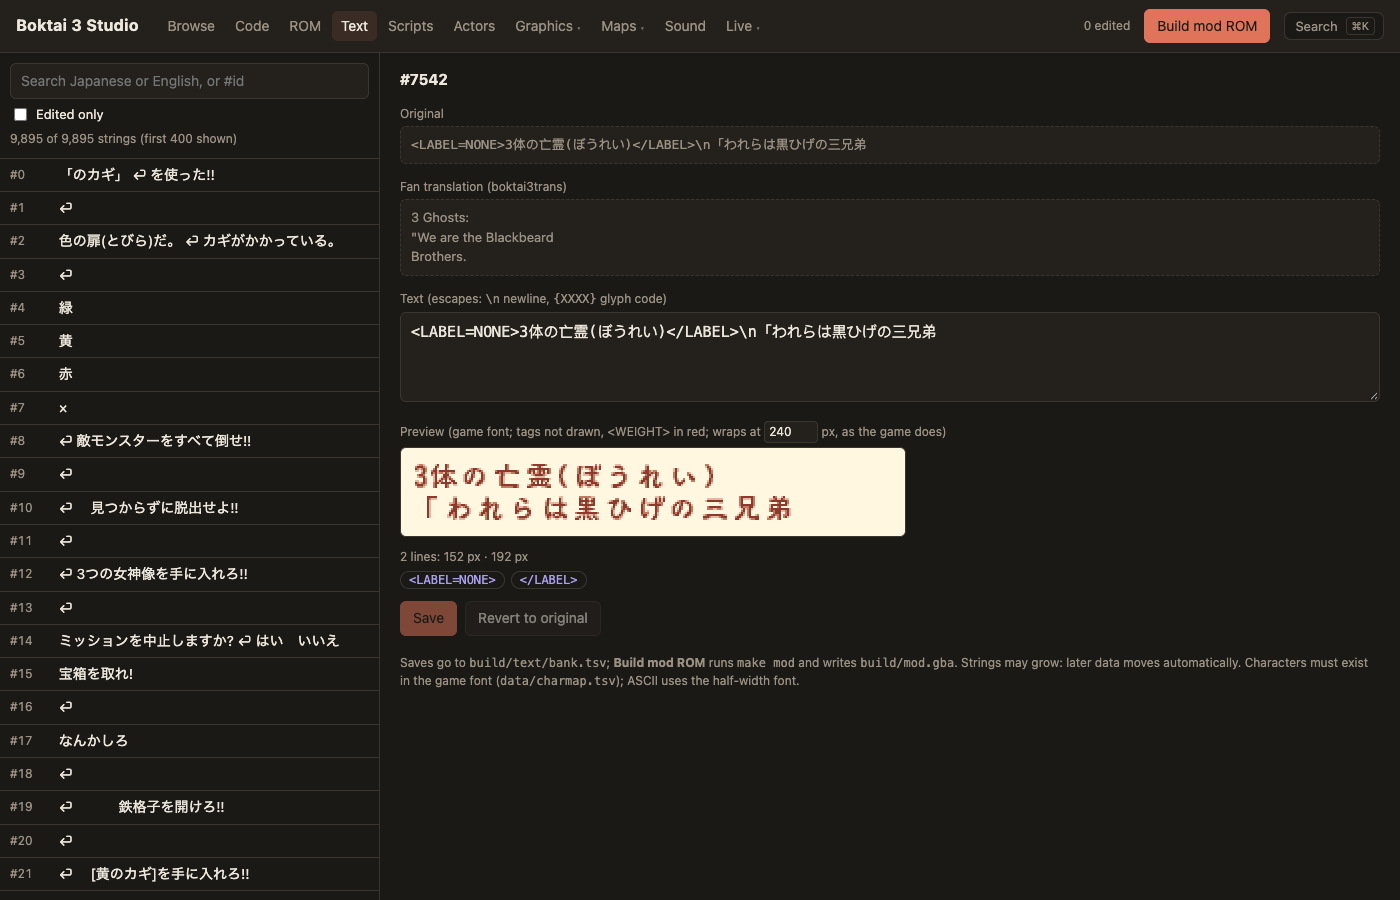
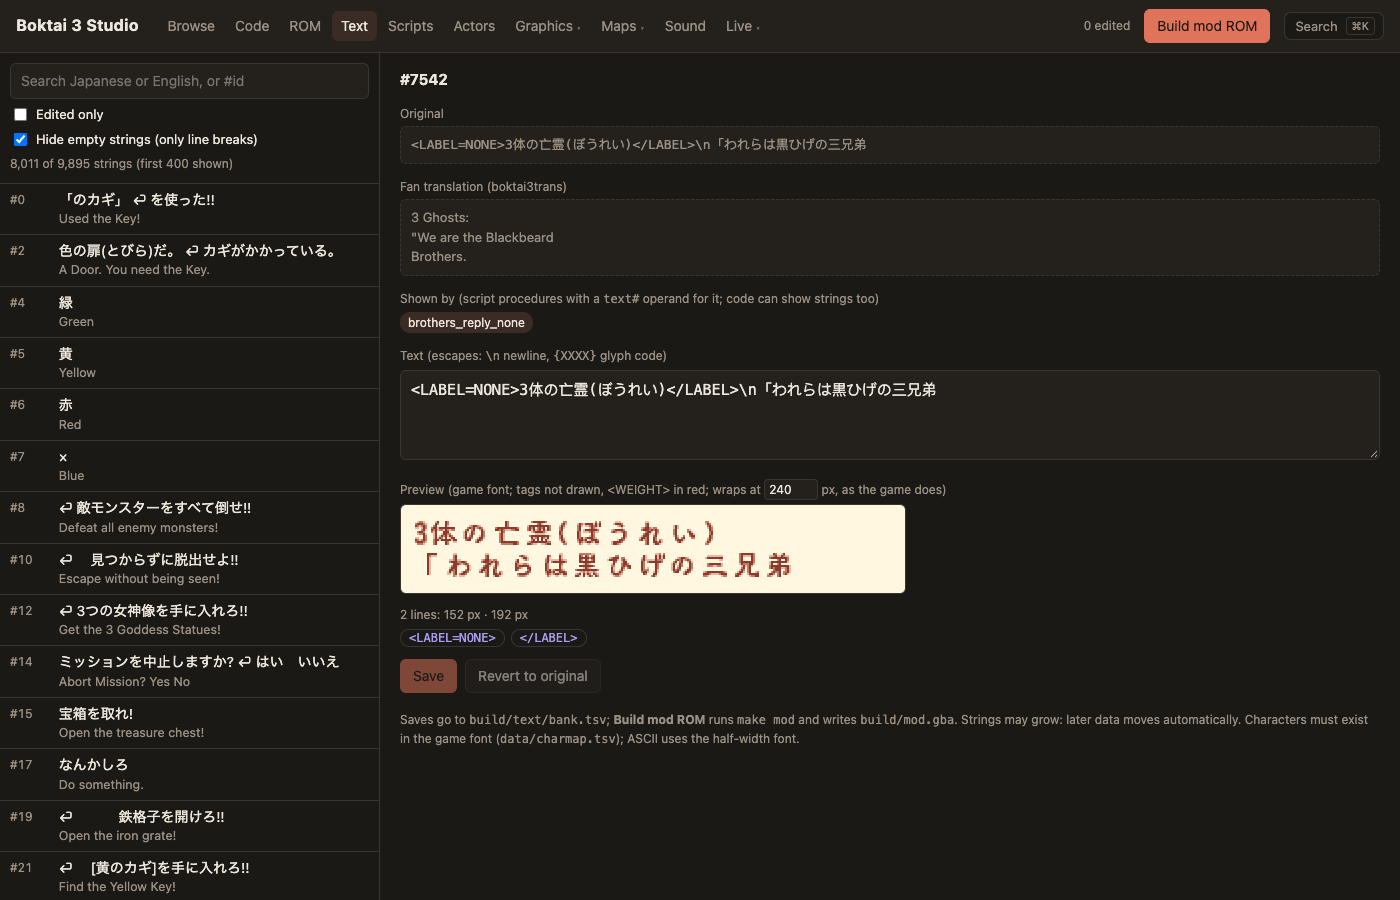
Studio Text: English in the list, empty strings hidden, who shows each string
The string list showed only the Japanese, and 1,884 of its 9,895 rows
were line breaks the game never shows. Each row now has the fan
translation under it, "Hide empty strings" is on by default, the first
string opens when no id is given, and the editor lists the script
procedures that show the string (/api/text/uses/N, from their text#N
operands), each opening in the side panel.

diff --git a/tools/studio/index.html b/tools/studio/index.html
@@ -38,7 +38,13 @@ input[type=search] { width: 100%; padding: 7px 10px; border-radius: 6px; border:
 .row:hover { background: var(--sel); }
 .row.on { background: var(--sel); box-shadow: inset 3px 0 var(--accent); }
 .row .id { color: var(--muted); font-variant-numeric: tabular-nums; min-width: 3.4em; font-size: 12px; padding-top: 1px; }
-.row .t { overflow: hidden; text-overflow: ellipsis; white-space: nowrap; flex: 1; }
+.row .t { overflow: hidden; flex: 1; min-width: 0; }
+.row .t > span { display: block; overflow: hidden; text-overflow: ellipsis; white-space: nowrap; }
+.row .t .en { color: var(--muted); font-size: 12.5px; }
+.uses { display: flex; gap: 6px; flex-wrap: wrap; }
+.uses a { font-size: 12px; padding: 2px 8px; border-radius: 10px; background: var(--sel); color: var(--ink); text-decoration: none; }
+.uses a:hover { outline: 1px solid var(--accent); }
+.uses .none { color: var(--muted); font-size: 12px; }
 .row .e { color: var(--edited); font-size: 11px; }
 #edit { padding: 16px 20px; overflow-y: auto; min-width: 0; }
 #edit h2 { font-size: 15px; margin: 0 0 10px; display: flex; gap: 10px; align-items: baseline; }
@@ -76,6 +82,9 @@ pre#log { background: var(--panel); border: 1px solid var(--line); border-radius
       <label style="margin:0;display:flex;gap:6px;align-items:center;color:var(--ink);font-size:13px">
         <input id="onlyEdited" type="checkbox"> Edited only
       </label>
+      <label style="margin:0;display:flex;gap:6px;align-items:center;color:var(--ink);font-size:13px">
+        <input id="hideEmpty" type="checkbox" checked> Hide empty strings (only line breaks)
+      </label>
       <div id="count"></div>
     </div>
     <div id="list"></div>
@@ -86,6 +95,8 @@ pre#log { background: var(--panel); border: 1px solid var(--line); border-radius
     <div class="orig" id="orig"></div>
     <label>Fan translation (boktai3trans)</label>
     <div class="orig" id="fan" style="font-family:system-ui,sans-serif"></div>
+    <label>Shown by <span style="font-weight:normal">(script procedures with a <code>text#</code> operand for it; code can show strings too)</span></label>
+    <div class="uses" id="uses"><span class="none">Pick a string on the left.</span></div>
     <label for="ed">Text <span style="font-weight:normal">(escapes: <code>\n</code> newline, <code>{XXXX}</code> glyph code)</span></label>
     <textarea id="ed" spellcheck="false" disabled></textarea>
     <label>Preview (game font; tags not drawn, &lt;WEIGHT&gt; in red; wraps at
@@ -127,15 +138,19 @@ async function load() {
   render();
   const h = parseInt(location.hash.slice(1));
   if (byId.has(h)) select(h);
+  else if (!EMBED) { const first = strings.find(s => !isEmpty(s)); if (first) select(first.id); }
   window.addEventListener('hashchange', () => { const n = parseInt(location.hash.slice(1)); if (byId.has(n)) select(n); });
 }
 
 function plain(t) { return t.replace(/<[^>]*>/g, '').replace(/\\n/g, ' ⏎ '); }
+// nothing but line breaks, tags and spaces: placeholders the game never shows
+const isEmpty = s => !plain(s.text).replace(/[⏎\s]/g, '');
 
 function render() {
-  const q = $('q').value.trim(), only = $('onlyEdited').checked;
+  const q = $('q').value.trim(), only = $('onlyEdited').checked, hide = $('hideEmpty').checked;
   let hits = strings;
   if (only) hits = hits.filter(s => s.edited);
+  if (hide && !q.startsWith('#')) hits = hits.filter(s => s.id === cur || !isEmpty(s));
   if (q.startsWith('#')) {
     const n = parseInt(q.slice(1));
     hits = isNaN(n) ? hits : hits.filter(s => String(s.id).startsWith(String(n)));
@@ -150,8 +165,10 @@ function render() {
     const d = document.createElement('div');
     d.className = 'row' + (cur === s.id ? ' on' : '');
     d.dataset.id = s.id;
-    d.innerHTML = `<span class="id">#${s.id}</span><span class="t"></span>${s.edited ? '<span class="e">edited</span>' : ''}`;
-    d.querySelector('.t').textContent = plain(s.text) || '(empty)';
+    d.innerHTML = `<span class="id">#${s.id}</span><span class="t"><span class="jp"></span><span class="en"></span></span>${s.edited ? '<span class="e">edited</span>' : ''}`;
+    d.querySelector('.jp').textContent = plain(s.text) || '(empty)';
+    const en = fan[s.id];
+    if (en && en !== s.text) d.querySelector('.en').textContent = plain(en); else d.querySelector('.en').remove();
     frag.appendChild(d);
   }
   $('list').replaceChildren(frag);
@@ -165,6 +182,7 @@ $('list').addEventListener('click', e => {
 $('q').addEventListener('input', render);
 listKeys(() => $('list'), '.row');
 $('onlyEdited').addEventListener('change', render);
+$('hideEmpty').addEventListener('change', render);
 
 function select(id) {
   cur = id;
@@ -179,6 +197,15 @@ function select(id) {
   history.replaceState(null, '', '#' + id);
   for (const r of document.querySelectorAll('.row')) r.classList.toggle('on', +r.dataset.id === id);
   preview();
+  showUses(id);
+}
+async function showUses(id) {
+  $('uses').innerHTML = '<span class="none">…</span>';
+  const u = await fetch('/api/text/uses/' + id).then(r => r.ok ? r.json() : null).catch(() => null);
+  if (cur !== id) return;
+  $('uses').innerHTML = !u ? '<span class="none">unavailable</span>' : u.procs.length
+    ? u.procs.map(p => peekLink('/scripts#' + p.id, esc(p.name || 'proc ' + p.id))).join('')
+    : '<span class="none">no script names it directly</span>';
 }
 
 // Same token rules as tools/datafmt/text_bank.py encode_string.

diff --git a/tools/studio/serve.py b/tools/studio/serve.py
@@ -46,7 +46,7 @@ log = logging.getLogger("studio")
 # for it instead of building the same index alongside.
 WARM = threading.Lock()
 SLOW = ("/api/atlas", "/api/codemap", "/api/search/", "/api/rommap", "/api/romtree", "/api/cutscene/", "/api/actors", "/api/procs", "/api/proc/",
-        "/api/code/", "/api/learned", "/api/stages", "/api/areas")
+        "/api/code/", "/api/learned", "/api/stages", "/api/areas", "/api/text/uses/")
 # polled by the live view several times a second; logged only when slow or failing
 POLLED = ("/api/live", "/api/live/player")
 
@@ -194,6 +194,22 @@ def world():
     import places
     w["places"] = places.assign(w)
     return w
+
+
+_TEXT_USES = {}
+
+
+def text_uses(n):
+    """The script procedures that show text-bank string N (their text#N operands)."""
+    if not _TEXT_USES:
+        import gclview
+        names = {int(p): r.get("name") for p, r in gclview.names().procs.items()}
+        uses = {}
+        for cid, p in actors.procs().items():
+            for t in set(p["texts"]):
+                uses.setdefault(t, []).append({"id": cid, "name": names.get(cid) or ""})
+        _TEXT_USES.update(uses or {-1: []})
+    return {"procs": _TEXT_USES.get(n, [])}
 
 
 def hp_data(h):
@@ -353,6 +369,8 @@ class Handler(http.server.BaseHTTPRequestHandler):
         elif self.path == "/api/strings":
             orig = self.server.original
             self.send(200, [dict(s, edited=orig.get(s["id"]) != s["text"]) for s in read_strings()])
+        elif self.path.startswith("/api/text/uses/"):
+            self.send(200, text_uses(int(self.path.rsplit("/", 1)[1])))
         elif self.path == "/api/original":
             self.send(200, self.server.original)
         elif self.path == "/api/english":

diff --git a/tests/tools/test_studio_text_uses.py b/tests/tools/test_studio_text_uses.py
@@ -1,0 +1,27 @@
+"""Which script procedures show a text-bank string (tools/studio/serve.py text_uses)."""
+import sys
+import types
+import unittest
+from pathlib import Path
+from unittest.mock import patch
+
+ROOT = Path(__file__).resolve().parents[2]
+for directory in (ROOT / 'tools', ROOT / 'tools' / 'assets', ROOT / 'tools' / 'studio'):
+    sys.path.insert(0, str(directory))
+import serve
+
+
+class TextUsesTests(unittest.TestCase):
+    def test_procedures_by_string(self):
+        procs = {5010: {'texts': [7542, 7542, 7543]}, 5011: {'texts': [7543]}, 5012: {'texts': []}}
+        names = types.SimpleNamespace(procs={'5010': {'name': 'brothers_reply_none'}, '5011': {}})
+        import gclview
+        with patch.dict(serve._TEXT_USES, {}, clear=True), patch.object(serve.actors, 'procs', lambda: procs), \
+                patch.object(gclview, 'names', lambda: names):
+            self.assertEqual(serve.text_uses(7542), {'procs': [{'id': 5010, 'name': 'brothers_reply_none'}]})
+            self.assertEqual([p['id'] for p in serve.text_uses(7543)['procs']], [5010, 5011])
+            self.assertEqual(serve.text_uses(1), {'procs': []})
+
+
+if __name__ == '__main__':
+    unittest.main()
